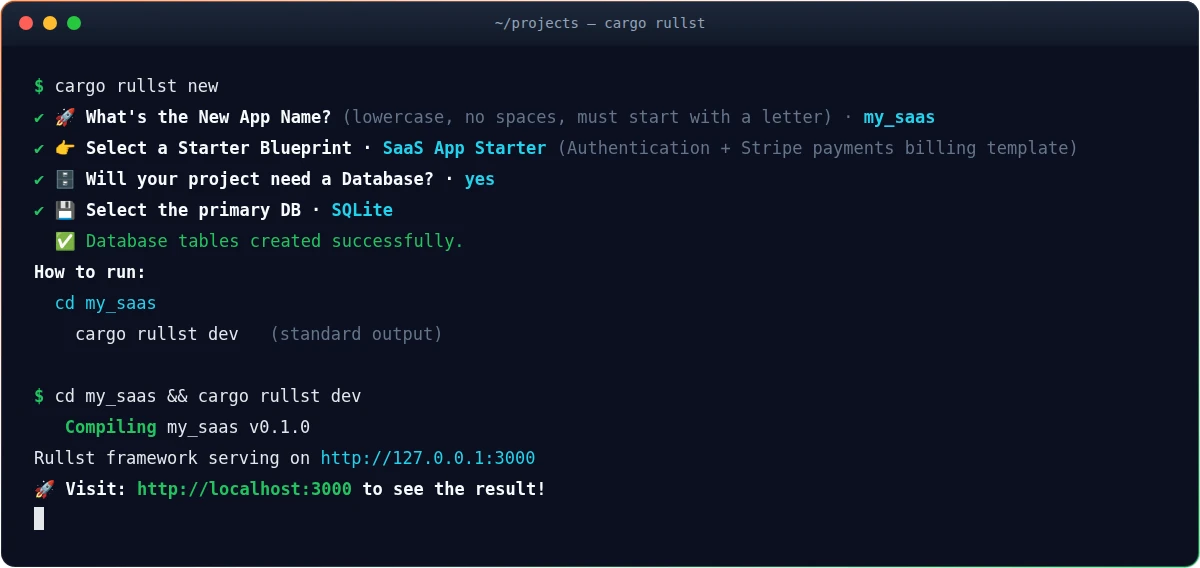
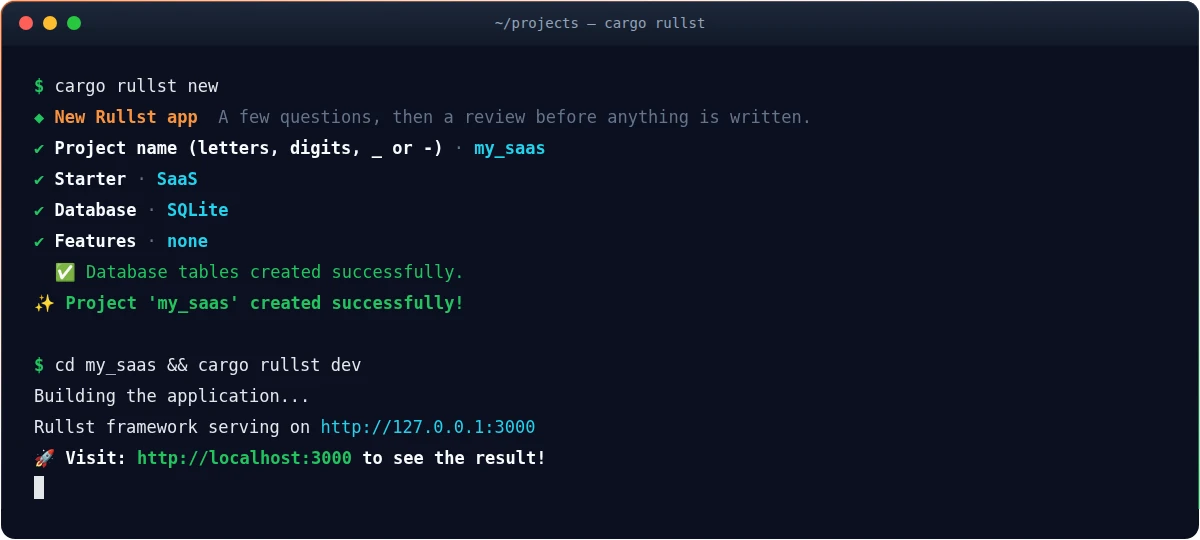
docs(readme): record the alpha.4 new-project wizard in the terminal
The animation showed the pre-v13 prompts (blueprint, "need a database",
"Compiling"). It now shows the wizard's real echo lines (project name,
starter, database, features), the creation messages and the first lines
of cargo rullst dev. The window is 28 px shorter for the shorter flow;
terminal-static.webp is the 14 s frame rendered with headless Chrome.

diff --git a/images/readme/source/gen_terminal.py b/images/readme/source/gen_terminal.py
@@ -3,7 +3,7 @@ import html
 import pathlib
 import sys
 
-W, H = 1200, 568
+W, H = 1200, 540
 T = 17.0  # loop length in seconds
 X0, Y0, LH = 34, 92, 31
 CHAR = 10.2  # estimated advance at 17px; covers adapt if a font is wider
@@ -18,21 +18,21 @@ C = {
 # (start second, typed?, segments[(text, color, bold)])
 LINES = [
     (0.6, True, [("$ ", "g", True), ("cargo rullst new", "w", False)]),
-    (2.1, False, [("✔ ", "g", True), ("🚀 What's the New App Name? ", "b", True),
-                  ("(lowercase, no spaces, must start with a letter) · ", "d", False), ("my_saas", "c", True)]),
-    (3.3, False, [("✔ ", "g", True), ("👉 Select a Starter Blueprint · ", "b", True),
-                  ("SaaS App Starter ", "c", True), ("(Authentication + Stripe payments billing template)", "d", False)]),
-    (4.4, False, [("✔ ", "g", True), ("🗄 Will your project need a Database? · ", "b", True), ("yes", "c", True)]),
-    (5.3, False, [("✔ ", "g", True), ("💾 Select the primary DB · ", "b", True), ("SQLite", "c", True)]),
-    (6.4, False, [("  ✅ Database tables created successfully.", "g", False)]),
-    (7.2, False, [("How to run:", "b", True)]),
-    (7.5, False, [("  cd my_saas", "c", False)]),
-    (7.8, False, [("    cargo rullst dev   ", "w", False), ("(standard output)", "d", False)]),
+    (1.9, False, [("◆ ", "g", True), ("New Rullst app", "o", True),
+                  ("  A few questions, then a review before anything is written.", "d", False)]),
+    (2.9, False, [("✔ ", "g", True), ("Project name (letters, digits, _ or -)", "b", True), (" · ", "d", False),
+                  ("my_saas", "c", True)]),
+    (3.8, False, [("✔ ", "g", True), ("Starter", "b", True), (" · ", "d", False), ("SaaS", "c", True)]),
+    (4.6, False, [("✔ ", "g", True), ("Database", "b", True), (" · ", "d", False), ("SQLite", "c", True)]),
+    (5.4, False, [("✔ ", "g", True), ("Features", "b", True), (" · ", "d", False), ("none", "c", True)]),
+    (6.6, False, [("  ✅ Database tables created successfully.", "g", False)]),
+    (7.3, False, [("✨ Project 'my_saas' created successfully!", "g", True)]),
     (8.9, True, [("$ ", "g", True), ("cd my_saas && cargo rullst dev", "w", False)]),
-    (10.9, False, [("   Compiling ", "g", True), ("my_saas v0.1.0", "w", False)]),
+    (10.9, False, [("Building the application...", "w", False)]),
     (12.0, False, [("Rullst framework serving on ", "w", False), ("http://127.0.0.1:3000", "c", False)]),
     (12.6, False, [("🚀 Visit: ", "b", True), ("http://localhost:3000", "g", True), (" to see the result!", "b", True)]),
 ]
+SECOND_COMMAND = 8  # index of the `cargo rullst dev` line
 TYPE_SPEED = 0.055
 FADE_START, FADE_END = 16.2, 16.8
 
@@ -44,7 +44,7 @@ def pct(t: float) -> str:
 def build(freeze: float | None = None) -> str:
     css, body = [], []
     for i, (start, typed, segs) in enumerate(LINES):
-        y = Y0 + i * LH + (LH if i >= 9 else 0)  # blank line before the second command
+        y = Y0 + i * LH + (LH if i >= SECOND_COMMAND else 0)  # blank line before it
         spans = "".join(
             f'<tspan fill="{C[c]}"{" font-weight=\"700\"" if bold else ""}>{html.escape(text)}</tspan>'
             for text, c, bold in segs
@@ -77,7 +77,7 @@ def build(freeze: float | None = None) -> str:
     frozen = f"*{{animation-play-state:paused!important;animation-delay:-{freeze}s!important}}" if freeze is not None else ""
     return f'''<svg xmlns="http://www.w3.org/2000/svg" width="{W}" height="{H}" viewBox="0 0 {W} {H}" role="img" aria-labelledby="t d">
 <title id="t">cargo rullst new — from zero to a running SaaS</title>
-<desc id="d">Terminal recording: cargo rullst new asks for the app name, blueprint and database, creates the SaaS starter with SQLite, then cargo rullst dev compiles and serves it at http://localhost:3000.</desc>
+<desc id="d">Terminal recording: cargo rullst new asks for the project name, starter, database and optional features, creates the SaaS starter with SQLite, then cargo rullst dev builds it and serves it at http://localhost:3000.</desc>
 <style>
 text{{font-family:{MONO};font-size:17px}}
 @keyframes blink{{0%,49%{{opacity:1}}50%,100%{{opacity:0}}}}
